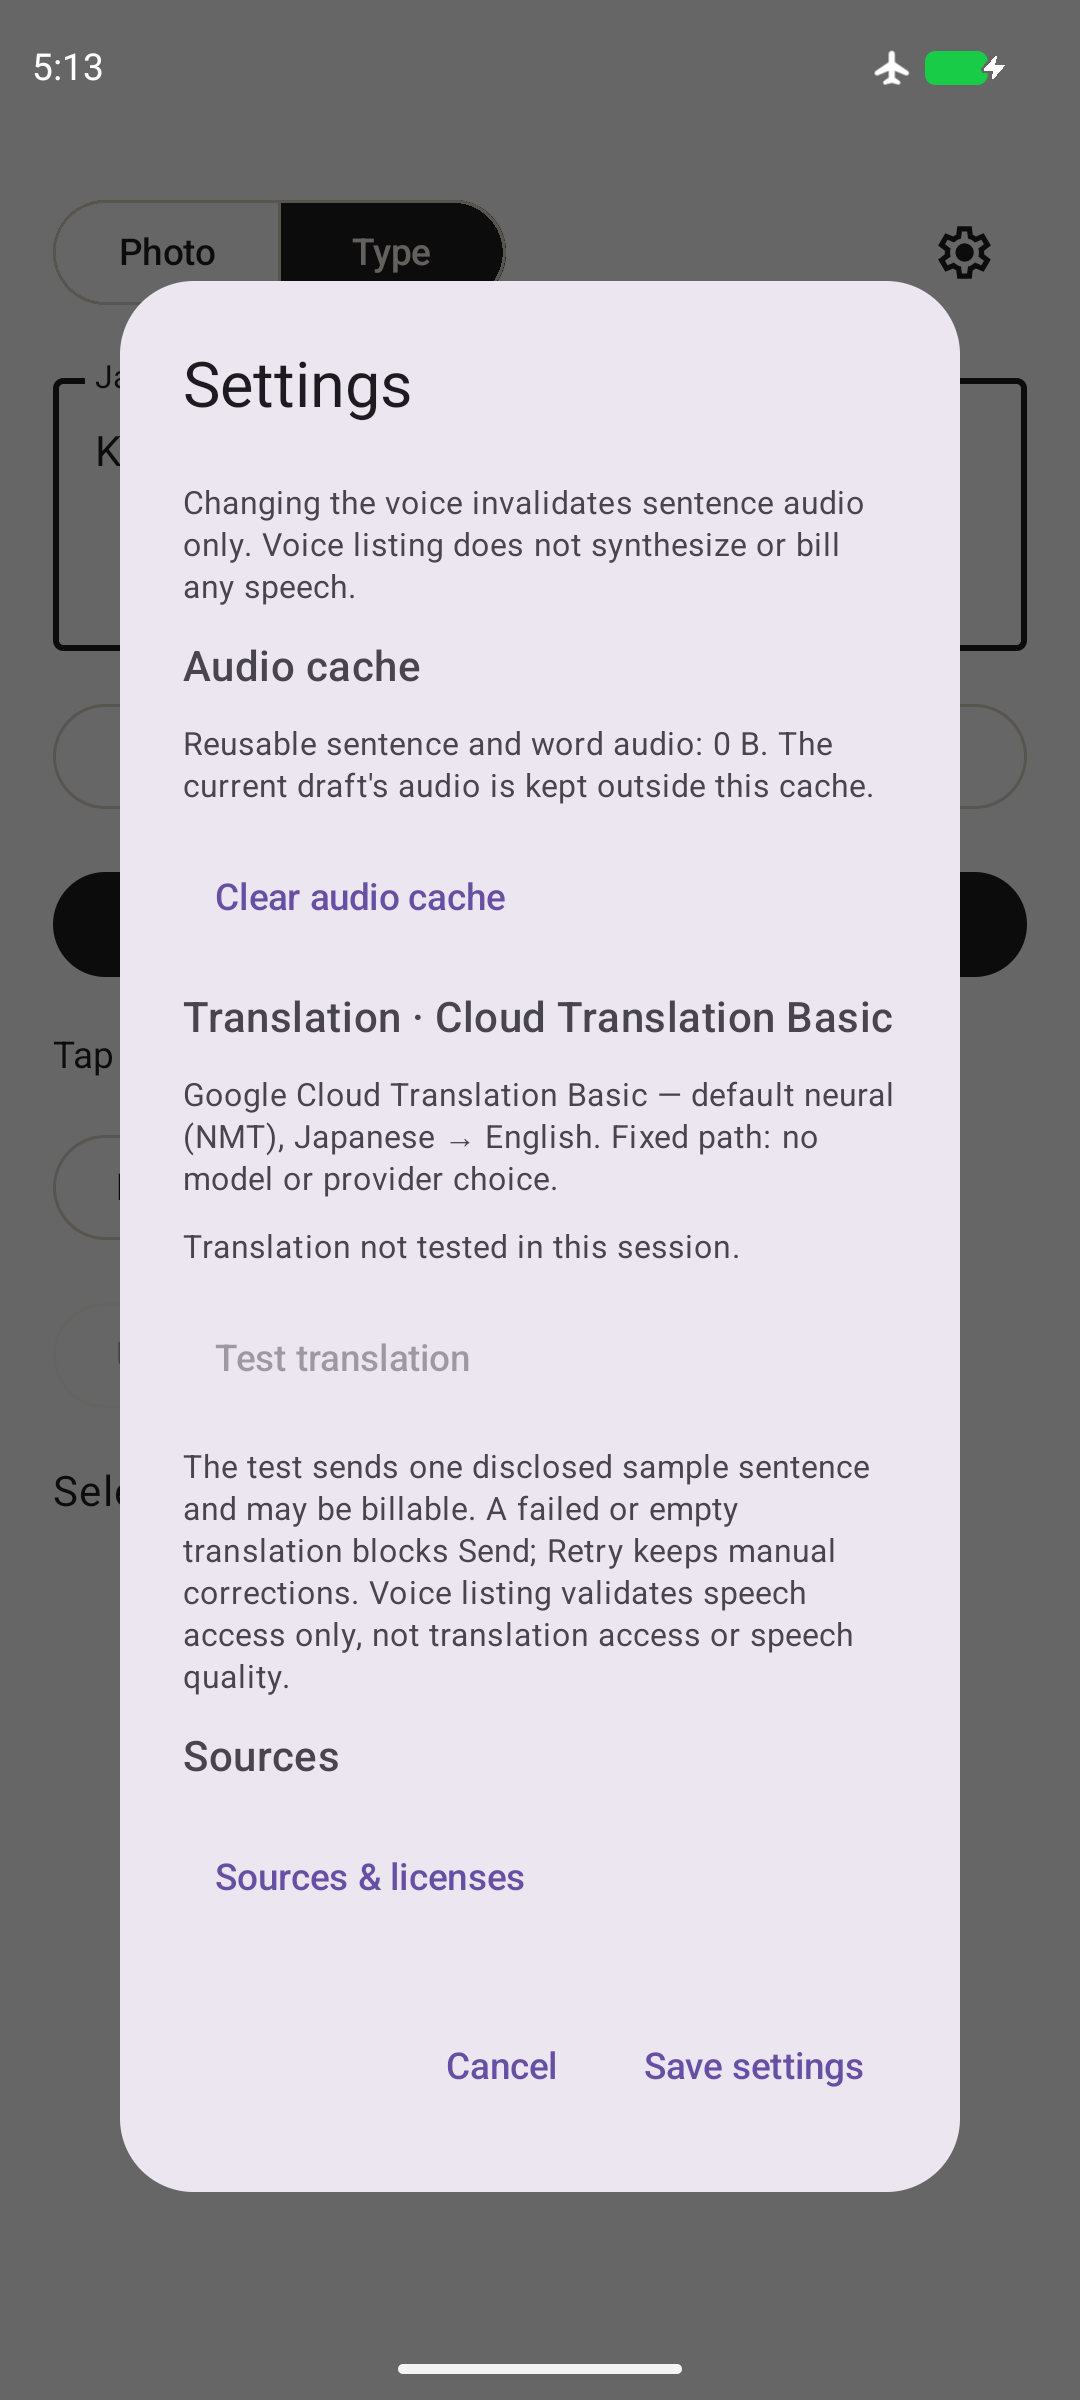
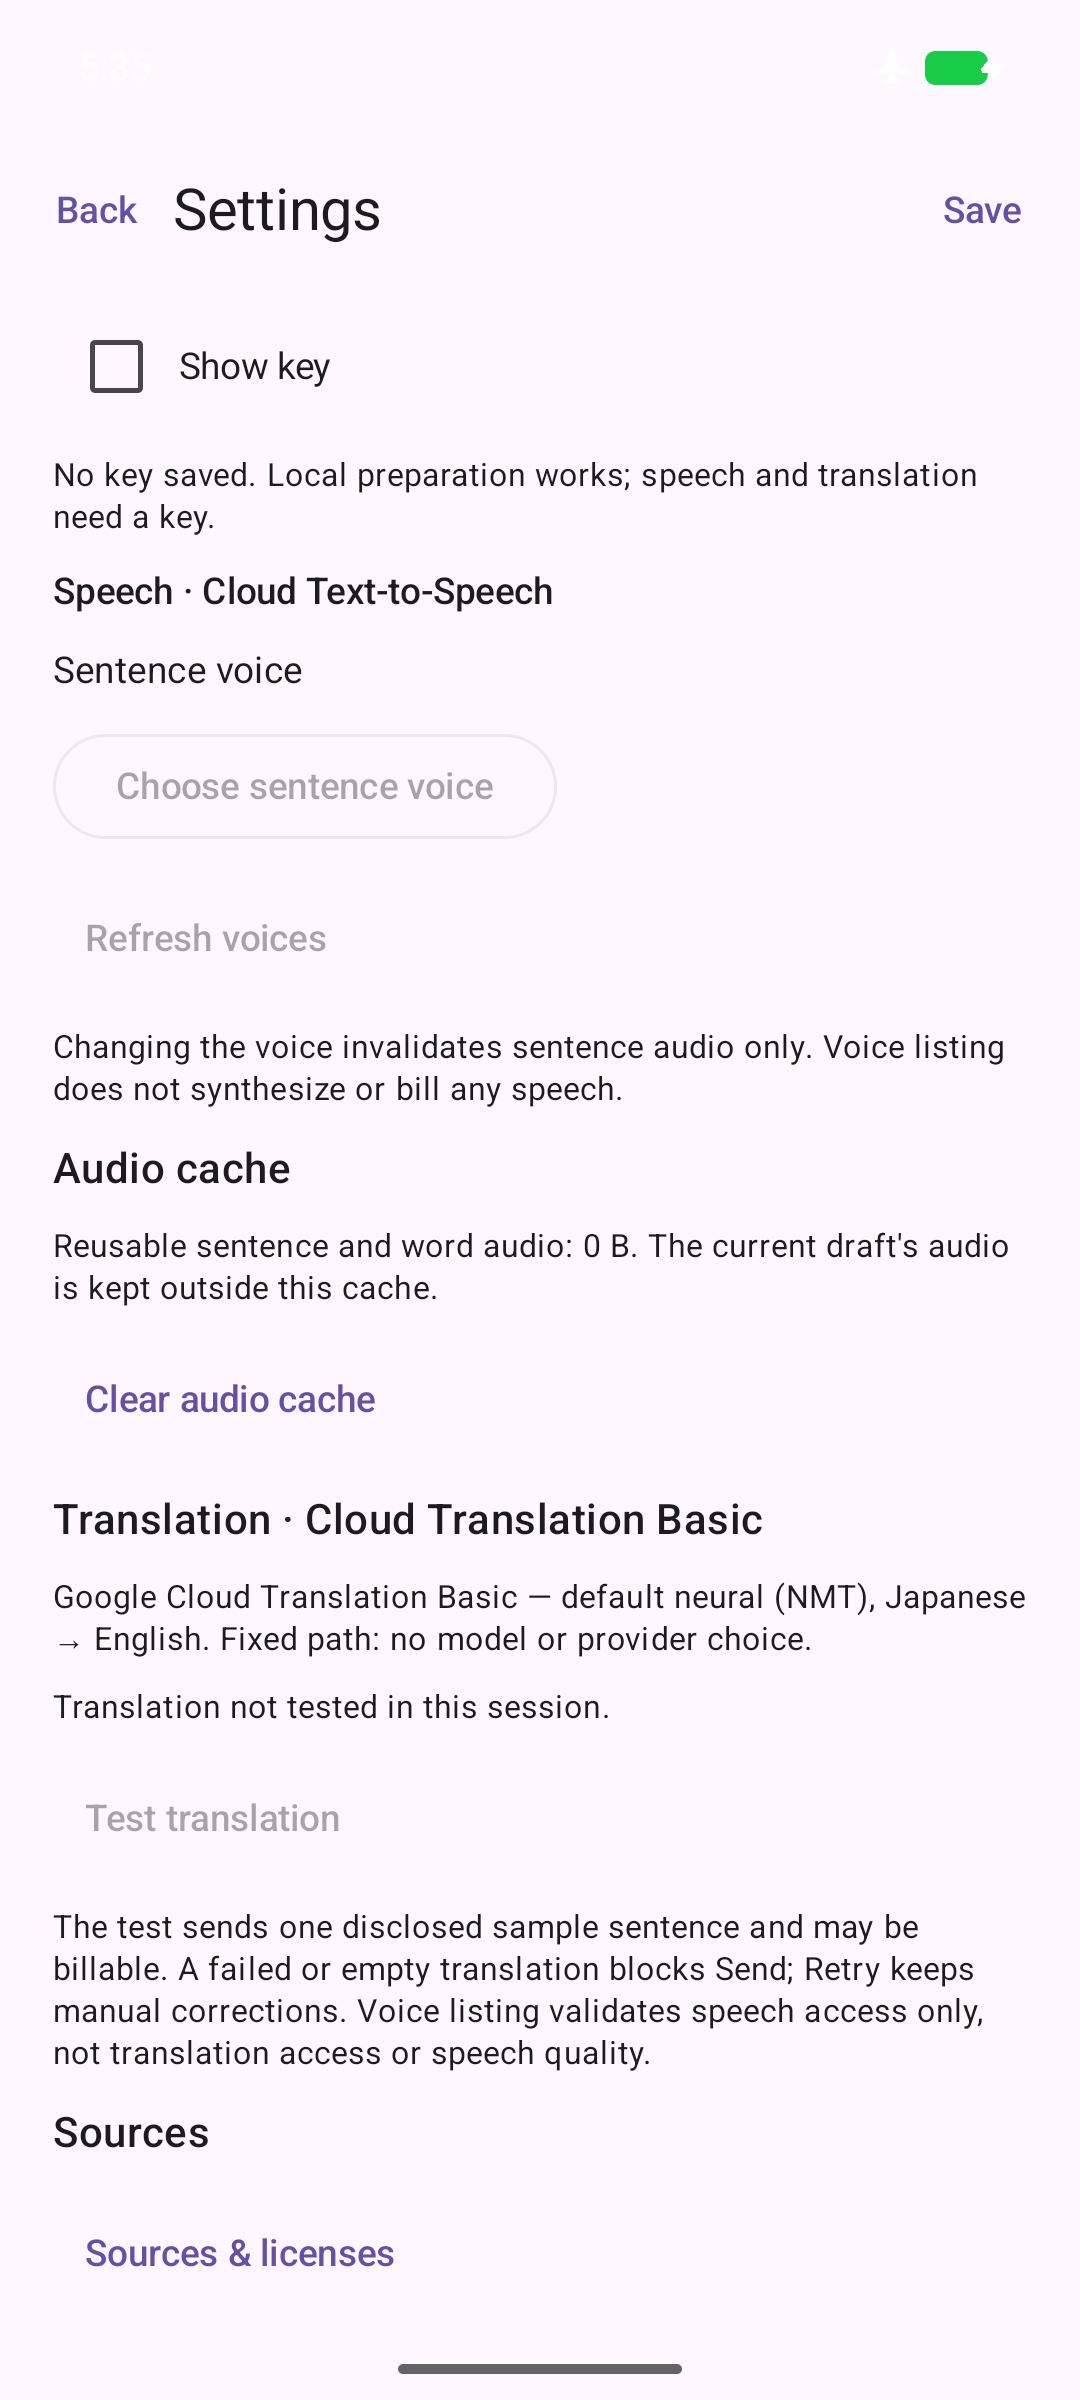
docs: re-capture Basic NMT evidence on the full-screen Settings pane

diff --git a/docs/google-basic-nmt/README.md b/docs/google-basic-nmt/README.md
@@ -5,7 +5,8 @@ Implementation evidence for SPEC §3, §4.7, §7.2, §10, §11, §14 R14/R27/R30
 ## Revision and environment
 
 - Branch `japanese-anki-app/t_e7982c2a-use-google-translation-basic-nmt-and-one`.
-- Implementation commit `6dce438` (this evidence document is the commit on top).
+- Commits: `6dce438` adapter, shared credential, failure classification and tests; `cb655fa`
+  full-screen Settings pane; evidence on top.
 - Base: `main` at `02ef946` (approved SPEC change) merged with the verified reading/NHK fixes
   (`7e37e79`, merge `24769dc`). Parent card `t_430ab378` was removed from the board and shipped no
   Settings-screen commit; its branch contained none of that work, so the shared-key Settings wiring
@@ -24,7 +25,7 @@ Implementation evidence for SPEC §3, §4.7, §7.2, §10, §11, §14 R14/R27/R30
 | `GoogleApiError.kt` (new) | One tested classifier for Google Cloud API error bodies (key invalid, `SERVICE_DISABLED`, billing, quota, invalid request), shared by the speech and translation adapters so both report the same project problem in their own status. |
 | `GoogleCloudCredential.kt` (new) | The single shared key. Keeps the existing storage id (`google_tts_key_encrypted`) so an already-saved Text-to-Speech key is reused without re-entry; `write` is local-only, and the obsolete `openrouter_key_encrypted` ciphertext is deleted, never read as a Google key. |
 | `speech/GoogleSpeech.kt`, `speech/SentenceSpeech.kt` | Speech failures reuse the shared classifier (`API_NOT_ENABLED`, `BILLING` added) and map a dropped connection to a specific network failure instead of a generic one. Chirp 3 HD, exact selected voice, MP3 validation, and yomigana hints are unchanged. |
-| `MainActivity.kt` | One Google Cloud key entry supplies both adapters. OpenRouter key entry, storage, and prompt/model plumbing removed. Speech and translation have separate status blocks; translation shows the read-only Basic/NMT path, an explicit, disclosed, possibly billable `Test translation` action, and the project requirements (billing, both APIs, key restricted to them). Saving writes local state only. `translationResponseIsCurrent` keeps in-flight results from mutating a newer revision. |
+| `MainActivity.kt` | One Google Cloud key entry supplies both adapters. Settings is now a full-screen pane (top app bar with Back and Save, one scrolling body) instead of an `AlertDialog`. OpenRouter key entry, storage, and prompt/model plumbing removed. Speech and translation have separate status blocks; translation shows the read-only Basic/NMT path, an explicit, disclosed, possibly billable `Test translation` action, and the project requirements (billing, both APIs, key restricted to them). Saving writes local state only. `translationResponseIsCurrent` keeps in-flight results from mutating a newer revision. |
 | `TranslationServiceTest.kt` | Rewritten for the Google contract (see matrix). |
 | `scripts/test-core.sh` | Compiles and runs the new adapter, classifier, and tests. |
 | `README.md` | Current setup text describes Google Translation Basic NMT and the shared key. |
@@ -53,7 +54,7 @@ nix build .#apk -L
     unsigned APK in the Nix store, arm64-v8a and x86_64 libs packaged
 
 sha256sum app/build/outputs/apk/debug/app-debug.apk
[2 lines of base64/hex data omitted]
 ```
 
 Installable candidates from this revision:
@@ -61,11 +62,11 @@ Installable candidates from this revision:
 ```
 debug-signed (installed and exercised on the emulator in this run)
 /srv/hermes/workspace/japanese-anki-app/.worktrees/t_e7982c2a/app/build/outputs/apk/debug/app-debug.apk
-548,134,209 bytes, sha256 433772d9…8ad879
+548,139,889 bytes, sha256 ca0b06ec…681b9c
 
 Nix build output (unsigned; signing is a release gate)
-/nix/store/ljmnia7nc5hn791lbbyfi59rxpy9864n-japanese-anki-card-creator-0.1.0/japanese-anki-unsigned.apk
-531,756,791 bytes, sha256 18b27bf5…abd7f32
+/nix/store/nap4c61q1h7dksxmlvnbqgx8br5ic2ib-japanese-anki-card-creator-0.1.0/japanese-anki-unsigned.apk
+531,756,791 bytes, sha256 2b6504ad…0605fa
 ```
 
 Version name/signing/ABI release gates belong to integration card `t_7349d4d0`; these are
@@ -92,13 +93,17 @@ remainder is named; **NOT RUN** = not executed.
 | R30 key entry triggers no paid request | **PASS** | Adapter construction and save perform no network call (unit: zero transport calls); on device, saving with the radio off produced no request and only local state changed. Voice listing is a separate, non-synthesizing action. |
 | R30 no-key local preparation | **PASS** (emulator) | With no key the app starts, the dictionary installs, typing and settings work; Settings shows "No key saved. Local preparation works; speech and translation need a key." and `Test translation` is disabled. `screens/settings-no-key.png`, `screens/settings-no-key-translation.png`. |
 | R30 service-failure state | **PASS** (emulator, no network) | With a deliberately fake key (`TESTONLYKEY`) and the emulator radio off: key status "Key saved for speech and translation.", speech status "Voice listing service is unavailable." (red), and a separate translation status "Translation service could not be reached." after tapping `Test translation`. `screens/settings-shared-key-speech-failure.png`, `screens/translation-test-network-failure.png`. |
-| Draft retention through Settings | **PASS** (emulator) | Typed draft survives opening and cancelling Settings. `screens/draft-retained-after-settings.png`. |
+| Draft retention through Settings | **PASS** (emulator) | A typed draft survives opening the Settings pane and pressing Back. `screens/draft-retained-after-settings.png`. |
 | Obsolete OpenRouter storage removed | **PASS** (device + unit) | `shared_prefs/settings.xml` after launching and saving contains only `google_tts_voice` and `google_tts_key_encrypted`; `removeObsoleteOpenRouterStorage` deletes the pref and never reads it. |
-| Live Google translation quality / listing / synthesis / listening | **NOT RUN** | No live credentials were requested, read, or used, and no paid Google call was made. Mocks and the offline device states above are integration evidence only, not quality evidence. |
-| Native Settings *screen* (replacing the dialog) | **NOT RUN — remainder** | Parent `t_430ab378` was removed from the board without shipping this. The existing scrollable Settings dialog carries the shared-key wiring, per-service status, and translation test; converting it to a native Settings screen with the mockup layout is outstanding and was deliberately not attempted here. |
+| Native Settings screen | **PASS** (emulator) | Settings is a full-screen pane with a top app bar (Back, title, Save) and one scrolling body; Back returns to the draft unchanged. `screens/settings-shared-key-speech-failure.png`, `screens/settings-no-key.png`. |
+| Live Google translation quality / listing / synthesis / listening | **NOT RUN** | No live credentials were requested, read, or used, and no paid Google call was made (every failure capture ran with the emulator radio off, `Active default network: none`). Mocks and the offline device states above are integration evidence only, not quality evidence. Live-service verification stays with SPEC §15 / integration card `t_7349d4d0`. |
 
 ## Notes and deliberate exclusions
 
+- Settings is a full-screen pane rendered over the current draft inside `MainActivity` (top app bar,
+  Back, Save, one scrolling body). It is not a separate navigation route: the app has no settings
+  destination, and adding one was the removed parent card's scope. All controls and the per-service
+  status live in that pane.
 - No provider/model picker, prompt, fallback, or automatic retry was added; a failure keeps the
   draft and offers the existing explicit Retry.
 - `TranslationSource` is now `GOOGLE`/`MANUAL`. A draft restored from a build that stored
